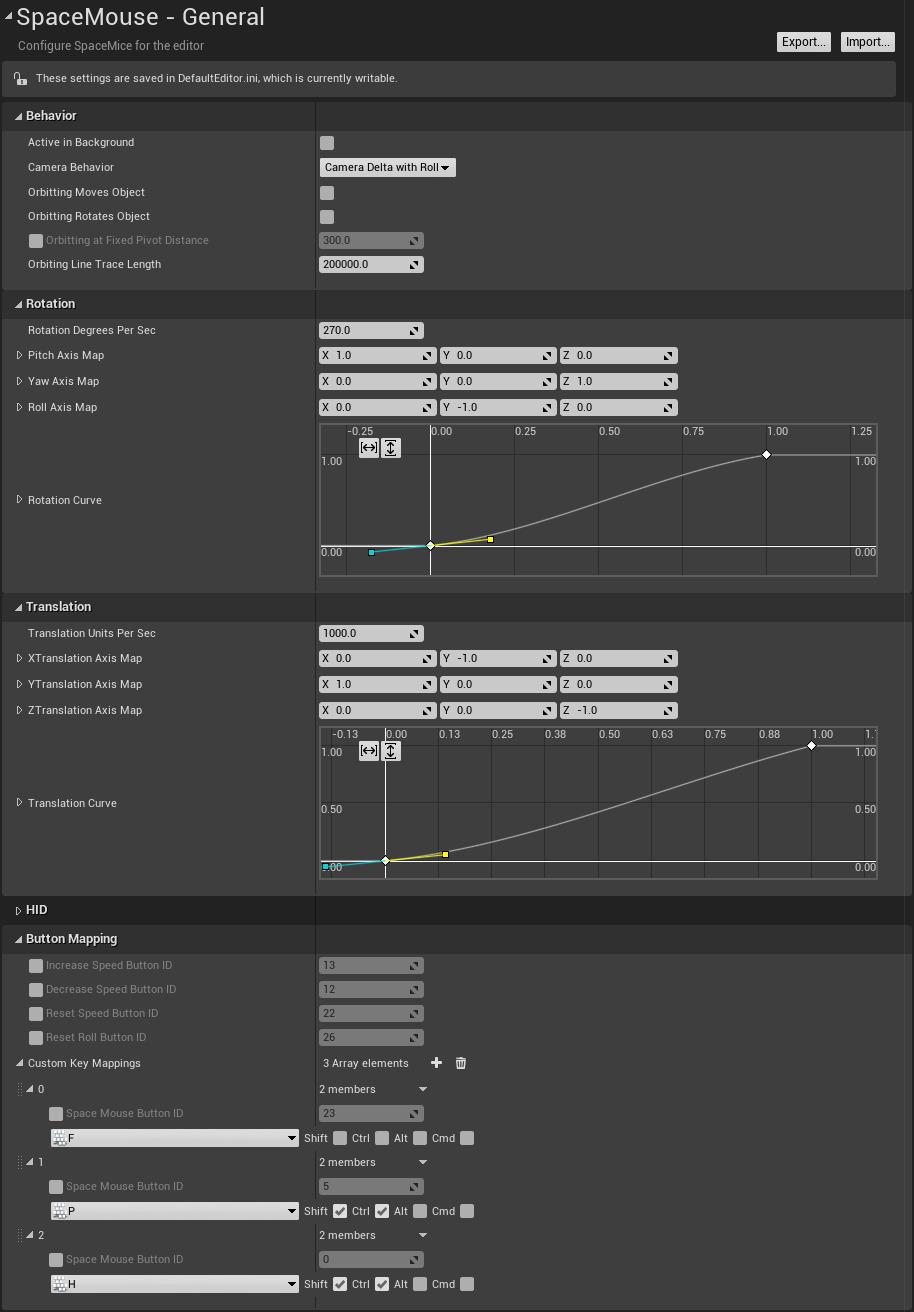
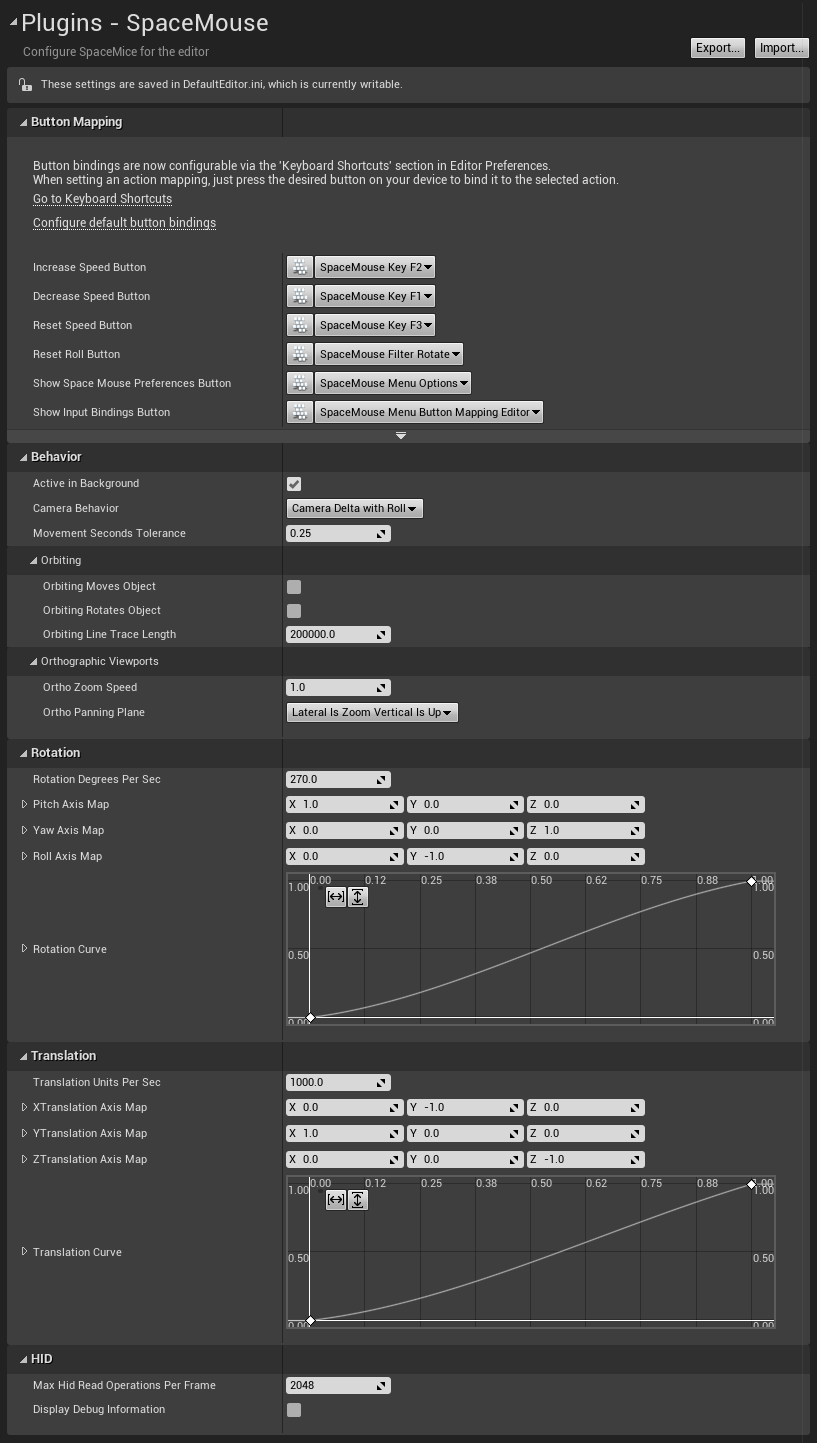
^ updated README.md and slightly reorganized it for readability.

diff --git a/README.md b/README.md
@@ -1,4 +1,28 @@
-## SpaceMouse camera controller for UE4 editor viewports
+# SpaceMouse for Unreal Engine
+
+- [SpaceMouse for Unreal Engine](#spacemouse-for-unreal-engine)
+- [Installation](#installation)
+  - [Disclaimer about the new official plugin shipped by 3DConnexion](#disclaimer-about-the-new-official-plugin-shipped-by-3dconnexion)
+  - [Requirements](#requirements)
+- [Config / Usage](#config--usage)
+  - [Buttons](#buttons)
+    - [Default editor bindings](#default-editor-bindings)
+  - [Behavior](#behavior)
+    - [Orbiting](#orbiting)
+    - [Orthographic viewports](#orthographic-viewports)
+  - [Axis configuration](#axis-configuration)
+  - [Misc](#misc)
+- [More info](#more-info)
+  - [Changelog](#changelog)
+  - [Major changes from version 1.2](#major-changes-from-version-12)
+  - [Major changes from version 1.1](#major-changes-from-version-11)
+  - [Build a release](#build-a-release)
+  - [Note on macOS support](#note-on-macos-support)
+  - [Known issues:](#known-issues)
+  - [Known nuances](#known-nuances)
+  - [Credits](#credits)
+
+# Installation
   
 **Pre-Compiled for UE 4.23 .. 4.26.**
 
@@ -22,33 +46,50 @@ This plugin works with the HID device directly and doesn't use 3DxWare (official
 * **Windows** treats space mice as generic HID input devices before 3DxWare is installed. Therefore this plugin works out of the box, without the need for official drivers to be installed.
   * In case you need to install their software package for other applications, make sure to untick their UE4 plugin in the installer.
   * However if you already installed the official drivers with default settings, please remove their UE4 plugin from `<path-to-ue4>\Engine\Plugins\3DConnexion` before using this one.
-* **MacOS** treats space mice as regular 2D mice before 3DxWare is installed. This means the OS prevents other programs accessing raw HID data of it to fight keyloggers, so they need the official drivers.
-  * [See installation instructions](MAC.md)
+  * Supporting official 3DxWare shenanigans are a planned thing now on Windows as well, when the driver is installed.
+* **MacOS** [see below](#note-on-macos-support)
 
-# About
+# Config / Usage
 
-You can control any 3D editor viewport currently in focus (user clicked on it). There are multiple control schemes, check below.
+You can control any 3D editor viewport (Perspective or Ortho) currently in focus (user needs to click on it first).
 
 ![Alt text](/ReadmeMedia/featured.png?raw=true "Coordinates")
 
 Transition speed is controllable via the camera speed setting and the camera speed scalar of the viewport. Camera speed can be increased or decreased with configurable buttons on the spacemice. Multiple devices are supported however their data is merged together into a global context.
 
-On default speeds (speed setting = 4) transition velocity is 1000 units/sec by default and rotation speed is 270°/sec by default. Rotation speed is not affected by camera speed settings. You can change these in the **Editor Preference** under SpaceMouse section.
+On default speeds (speed setting = 4) transition velocity is 1000 units/sec by default and rotation speed is 270°/sec by default. Rotation speed is not affected by camera speed settings. You can change these in the **Editor Preferences -> Plugins -> SpaceMouse** section.
 
 ![Alt text](/ReadmeMedia/settings.png?raw=true "Settings")
 
+## Buttons
+
+With **Button mappings** one can remap some functionalities to SpaceMouse buttons.
+* For the SpaceMouse specific actions listed in here, either explicitly select a button, or press the small "keyboard" icon to learn a button.
+* For further actions go to the `Keyboard Shortcuts` Editor preferences (link provided) and bind your SpaceMouse buttons as you would bind a regular keyboard shortcut. Using the ***SECONDARY*** input binding form is recommended.
+
+### Default editor bindings
+
+There's a pre-defined default set of bindings you can activate by clicking on _"Configure default button bindings"_.
+
+* Under the hood it just assigns sensically the buttons from space mice, to the ***SECONDARY*** binding of the equivalent or close-enough™ Unreal Editor input action. It doesn't touch the primary binding which is usually the default keyboard shortcut.
+* In some rare cases there's already something assigned as the ***SECONDARY*** binding which will be overwritten by this operation. This is also the reason why I chose to trigger this by the user, and why it's guarded with a confirmation dialog.
+
+## Behavior
+
 **Active in Background** When false, only control the camera of UE4 while the editor is the foreground application.
 
-**Camera Behavior** Sets the mode of controlling the viewport camera. For all modes movement is always applied in current camera space.
+**Camera Behavior** Sets the mode of controlling the viewport camera. All behavior controls the viewport camera.
 
 * **Camera Delta with Roll**
   * SpaceMouse represents the Delta Movement of the camera in Free-flight/Helicopter fashion. All rotation is in current camera space.
 * **Camera Delta with No Roll**
   * Same as above but roll is ignored and Yaw is always in World space (instead of current camera space))
-* **Orbiting with Roll** (EXPERIMENTAL)
+* **Orbiting with Roll**
   * SpaceMouse represents the Delta Movement of the camera around "the object" OR the Delta movement of "the object" in front of the camera. The pivot of orbiting is either surface point in the center of the viewport, or a fixed distance if set in the settings.
-* **Orbiting with No Roll** (EXPERIMENTAL)
+* **Orbiting with No Roll**
   * Same as above but roll is ignored and Yaw is always in World space (instead of current camera space))
+
+### Orbiting
 
 **Orbiting Moves/Rotates Object** When true, SpaceMouse represents the Delta movement of "the object" in front of the camera (meaning axes are inverted)
 
@@ -56,17 +97,25 @@ On default speeds (speed setting = 4) transition velocity is 1000 units/sec by d
 
 **Orbiting Line Trace Length** is the maximum possible radius of the orbiting behavior in UE4 units (usually cm).
 
+### Orthographic viewports
+
+Camera controls are slightly different when controlling an Orthographic viewport (Top/Bottom, Left/Right, Front/Rear). Rotation is disabled, and the SpaceMouse is used only to pan on the selected plane and zoom.
+
+**Ortho Zoom Speed** An arbitrary multiplier of the Zoom speed while insdide an Orthographic viewport. Negative numbers reverse the direction of zooming.
+
+**OrthoPanningPlane** Select the plane of the device (2 axes) which will control the panning motion inside an Orthographic viewport.
+* **Lateral Is Zoom, Vertical Is Up**: Move puck orthogonal to the plane of the Monitor to move around, Push Forward / Pull Backward to zoom.
+* **Lateral Is Up, Vertical Is Zoom**: Move puck orthogonal to the plane of the Desk to move around, Push Down / Pull Up to zoom.
+
+## Axis configuration
+
 **Axis mappings** are conversions between the space of spacemice and the space of UE4. You can invert rotations and translations here by flipping the sign. The default values are my subjective preferences (as you can see in the coordinate system image above).
 
 **Rotation/Translation Curve** are defining the 0..1 curvature from resting state to fully pushed/pulled state of the SpaceMouse puck. Dead-zone, clamping, exponent or other less useful transformations can be expressed with this. Default is 0..1 linear curve, which means no effect.
 
+## Misc
+
 **Display Debug Information** prints HID data onto the viewport. You don't need to change **Max Hid Read Operations Per Frame**. Just ignore it.
-
-With **Button mappings** one can remap some functionalities to SpaceMouse buttons. Activate the toggle button next to the property to learn the desired button mapping for said function.
-
-* Increase, Decrease and Reset camera speed.
-* Reset the roll of the camera
-* Map SpaceMouse buttons to keyboard presses in UE4 editor, so if you have a SpaceMouse Pilot or Enterprise you can spare some hand lifts while working.
 
 [Report bugs](https://github.com/microdee/UE4-SpaceMouse/issues)
 
@@ -74,17 +123,30 @@ With **Button mappings** one can remap some functionalities to SpaceMouse button
 
 [UE4 forum (please prefer Github Discussions)](https://forums.unrealengine.com/unreal-engine/feedback-for-epic/437-support-for-space-navigator-3d-mouse?p=1609440#post1609440)
 
-## Build a release
+# More info
 
-If for any reason you cannot use this plugin as a submodule and you want to make a pre-built release to be an engine plugin, then work with the [official test project](https://github.com/microdee/UE4-SpaceMouse-TestProject) and see the build instructions there.
+## [Changelog](CHANGELOG.md)
+
+## Major changes from version 1.2
+
+The structure of SpaceMouse preferences has changed significantly. Upon updating from prior versions (<= 1.1.x) you might need to re-configure the plugin. Don't worry though, the button binding UX has been improved significantly.
 
 ## Major changes from version 1.1
 
-Upon updating from prior versions please delete both HIDUE and SpaceMouse plugins from your Engine or Project plugins folder!
+Upon updating from prior versions (<= 1.0.x pre-marketplace) please delete both HIDUE and SpaceMouse plugins from your Engine or Project plugins folder!
 
 1. Editor settings is moved to Plugins -> SpaceMouse to follow conventions
 2. HIDUE is now demoted to a module instead of an entire plugin
 3. This repository now only contains the plugin itself which you can also directly submodule now in your code projects if you wish.
+
+## Build a release
+
+If for any reason you cannot use this plugin as a submodule and you want to make a pre-built release to be an engine plugin, then work with the [official test project](https://github.com/microdee/UE4-SpaceMouse-TestProject) and see the build instructions there.
+
+## Note on macOS support
+
+macOS is not yet supported due to a roadblock I'm super frustrated about. Anyway it treats space mice as regular 2D mice before 3DxWare is installed. This means the OS prevents other programs accessing their HID data via the `HIDManager` to fight keyloggers, so they need the official drivers, which unfortunately don't want to cooperate with me as of the time of writing.
+[See installation instructions](MAC.md)
 
 ## Known issues:
 
@@ -95,7 +157,8 @@ Upon updating from prior versions please delete both HIDUE and SpaceMouse plugin
 * ~~Upon exiting the editor the engine crashes. I know why it does that but I didn't figure it out quite yet how to prevent it.~~
   * FIXED
 * Jumping forward periodically when leaning / going forward with the camera
-  * This is most probably caused by the scroll-wheel emulation of 3DxWare. Disable it in the per-application settings, or uninstall it.
+  * __TL;DR:__ Open 3DxWare per-application settings and disable scroll-wheel emulation (disable tilt axis) (per-application settings are opened by the Menu button or bottom left button on your SpaceMouse by default)
+  * [See issue](https://github.com/microdee/UE4-SpaceMouse/issues/12)
 * If you install or update 3DxWare with their new plugin (TDxUnrealEditor), and you had this plugin before, you might experience undefined interaction glitches.
   * Remove either this or the 3DConnexion plugin (TDxUnrealEditor) according to your preference.
 
@@ -107,15 +170,11 @@ Upon updating from prior versions please delete both HIDUE and SpaceMouse plugin
   * There are camera behaviors now which should not introduce roll
   * In case the SpaceMouse becomes unavailable Maya style Alt + Right-drag dollying resets camera roll
 
-## Roadmap:
-
-* Actively maintained cross platform support of HIDUE for MacOS and Linux (coming after mid-January)
-* Default bindings for connected device and friendlier button name display (coming after mid-January)
-* More intuitive and usable implementation of the Orbiting mode.
-
-## Credits:
+## Credits
 
 * [HIDAPI](https://github.com/libusb/hidapi)
+* **Gabor Papp** for initially investigating macOS support
 * From UE4 forums:
   * **enzo_molinari** for the plugin icon
   * **adlord** for testing with wireless devices
+  * **mrboni** for testing with discontinued SpacePilot Pro

diff --git a/CHANGELOG.md b/CHANGELOG.md
@@ -46,7 +46,7 @@
 # **1.1** (Current) (Marketplace)
 
 ## <= 1.1.4 
-See releases
+[See releases](https://github.com/microdee/UE4-SpaceMouse/releases)
 
 # **1.3** (roadmap)
 
